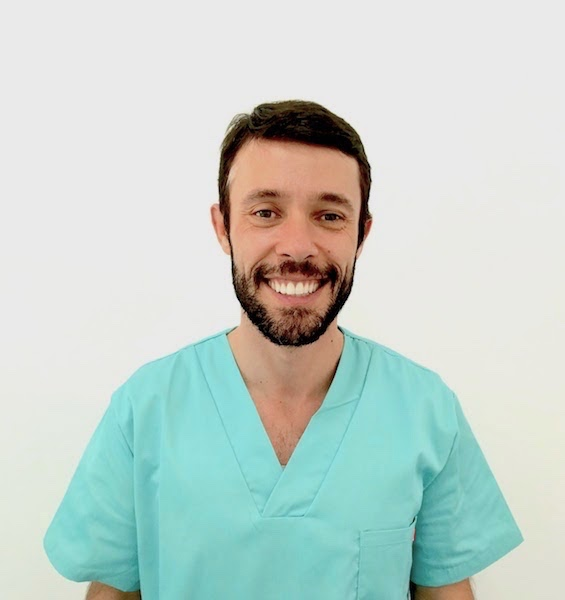
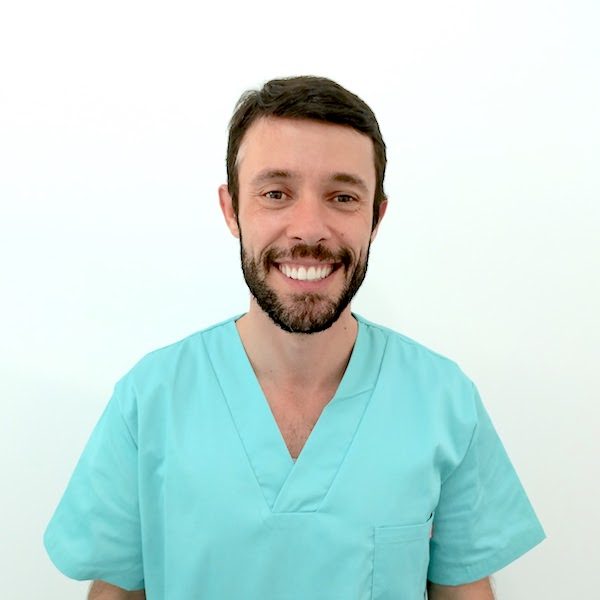
Adding Ricardo Happy

diff --git a/index.html b/index.html
@@ -153,7 +153,7 @@
 				<!-- Three -->
 					<section id="three" class="wrapper style2 spotlights">
 						<section>
-							<a class="image"><img src="images/team/rosana.jpg" alt="" data-position="center center" /></a>
+							<a class="image"><img id='rosana' src="images/team/rosana.jpg" alt="" data-position="center center" /></a>
 							<div class="content">
 								<div class="inner">
 									<h2>Dra. Rosana Reis</h2>
@@ -168,7 +168,7 @@
 							</div>
 						</section>
 						<section>
-							<a class="image"><img src="images/team/anapaula.jpg" alt="" data-position="top center" /></a>
+							<a class="image"><img id='anapaula' src="images/team/anapaula.jpg" alt="" data-position="top center" /></a>
 							<div class="content">
 								<div class="inner">
 									<h2>Dra. Ana Paula Taufer</h2>
@@ -181,7 +181,7 @@
 							</div>
 						</section>
 						<section>
-							<a class="image"><img src="images/team/ricardo.jpg" alt="" data-position="top center" /></a>
+							<a id="ricardoback" class="image"><img id='ricardo' src="images/team/ricardo.jpg" alt="" data-position="top center" /></a>
 							<div class="content">
 								<div class="inner">
 									<h2>Dr. Ricardo Cauterucci</h2>
@@ -195,7 +195,7 @@
 							</div>
 						</section>
 						<section>
-							<a class="image"><img src="images/team/liliana.jpg" alt="" data-position="25% 25%" /></a>
+							<a class="image"><img id='liliana' src="images/team/liliana.jpg" alt="" data-position="25% 25%" /></a>
 							<div class="content">
 								<div class="inner">
 									<h2>Liliana Soares</h2>

diff --git a/assets/js/custom.js b/assets/js/custom.js
@@ -23,6 +23,15 @@
     /**
      * Private Variables and Functions
      */
+    $('#ricardoback').click(function() {
+        if ($('#ricardo').prop('src').split('/').pop() === 'ricardo.jpg') {
+            $('#ricardo').prop('src','images/team/ricardohappy.jpg');
+            $('#ricardoback').css({'background-image': 'url("images/team/ricardohappy.jpg")', 'background-position': 'center top'});
+        } else {
+            $('#ricardo').prop('src','images/team/ricardo.jpg');
+            $('#ricardoback').css({'background-image': 'url("images/team/ricardo.jpg")', 'background-position': 'center top'});
+        }
+    });
 
     
     /**
